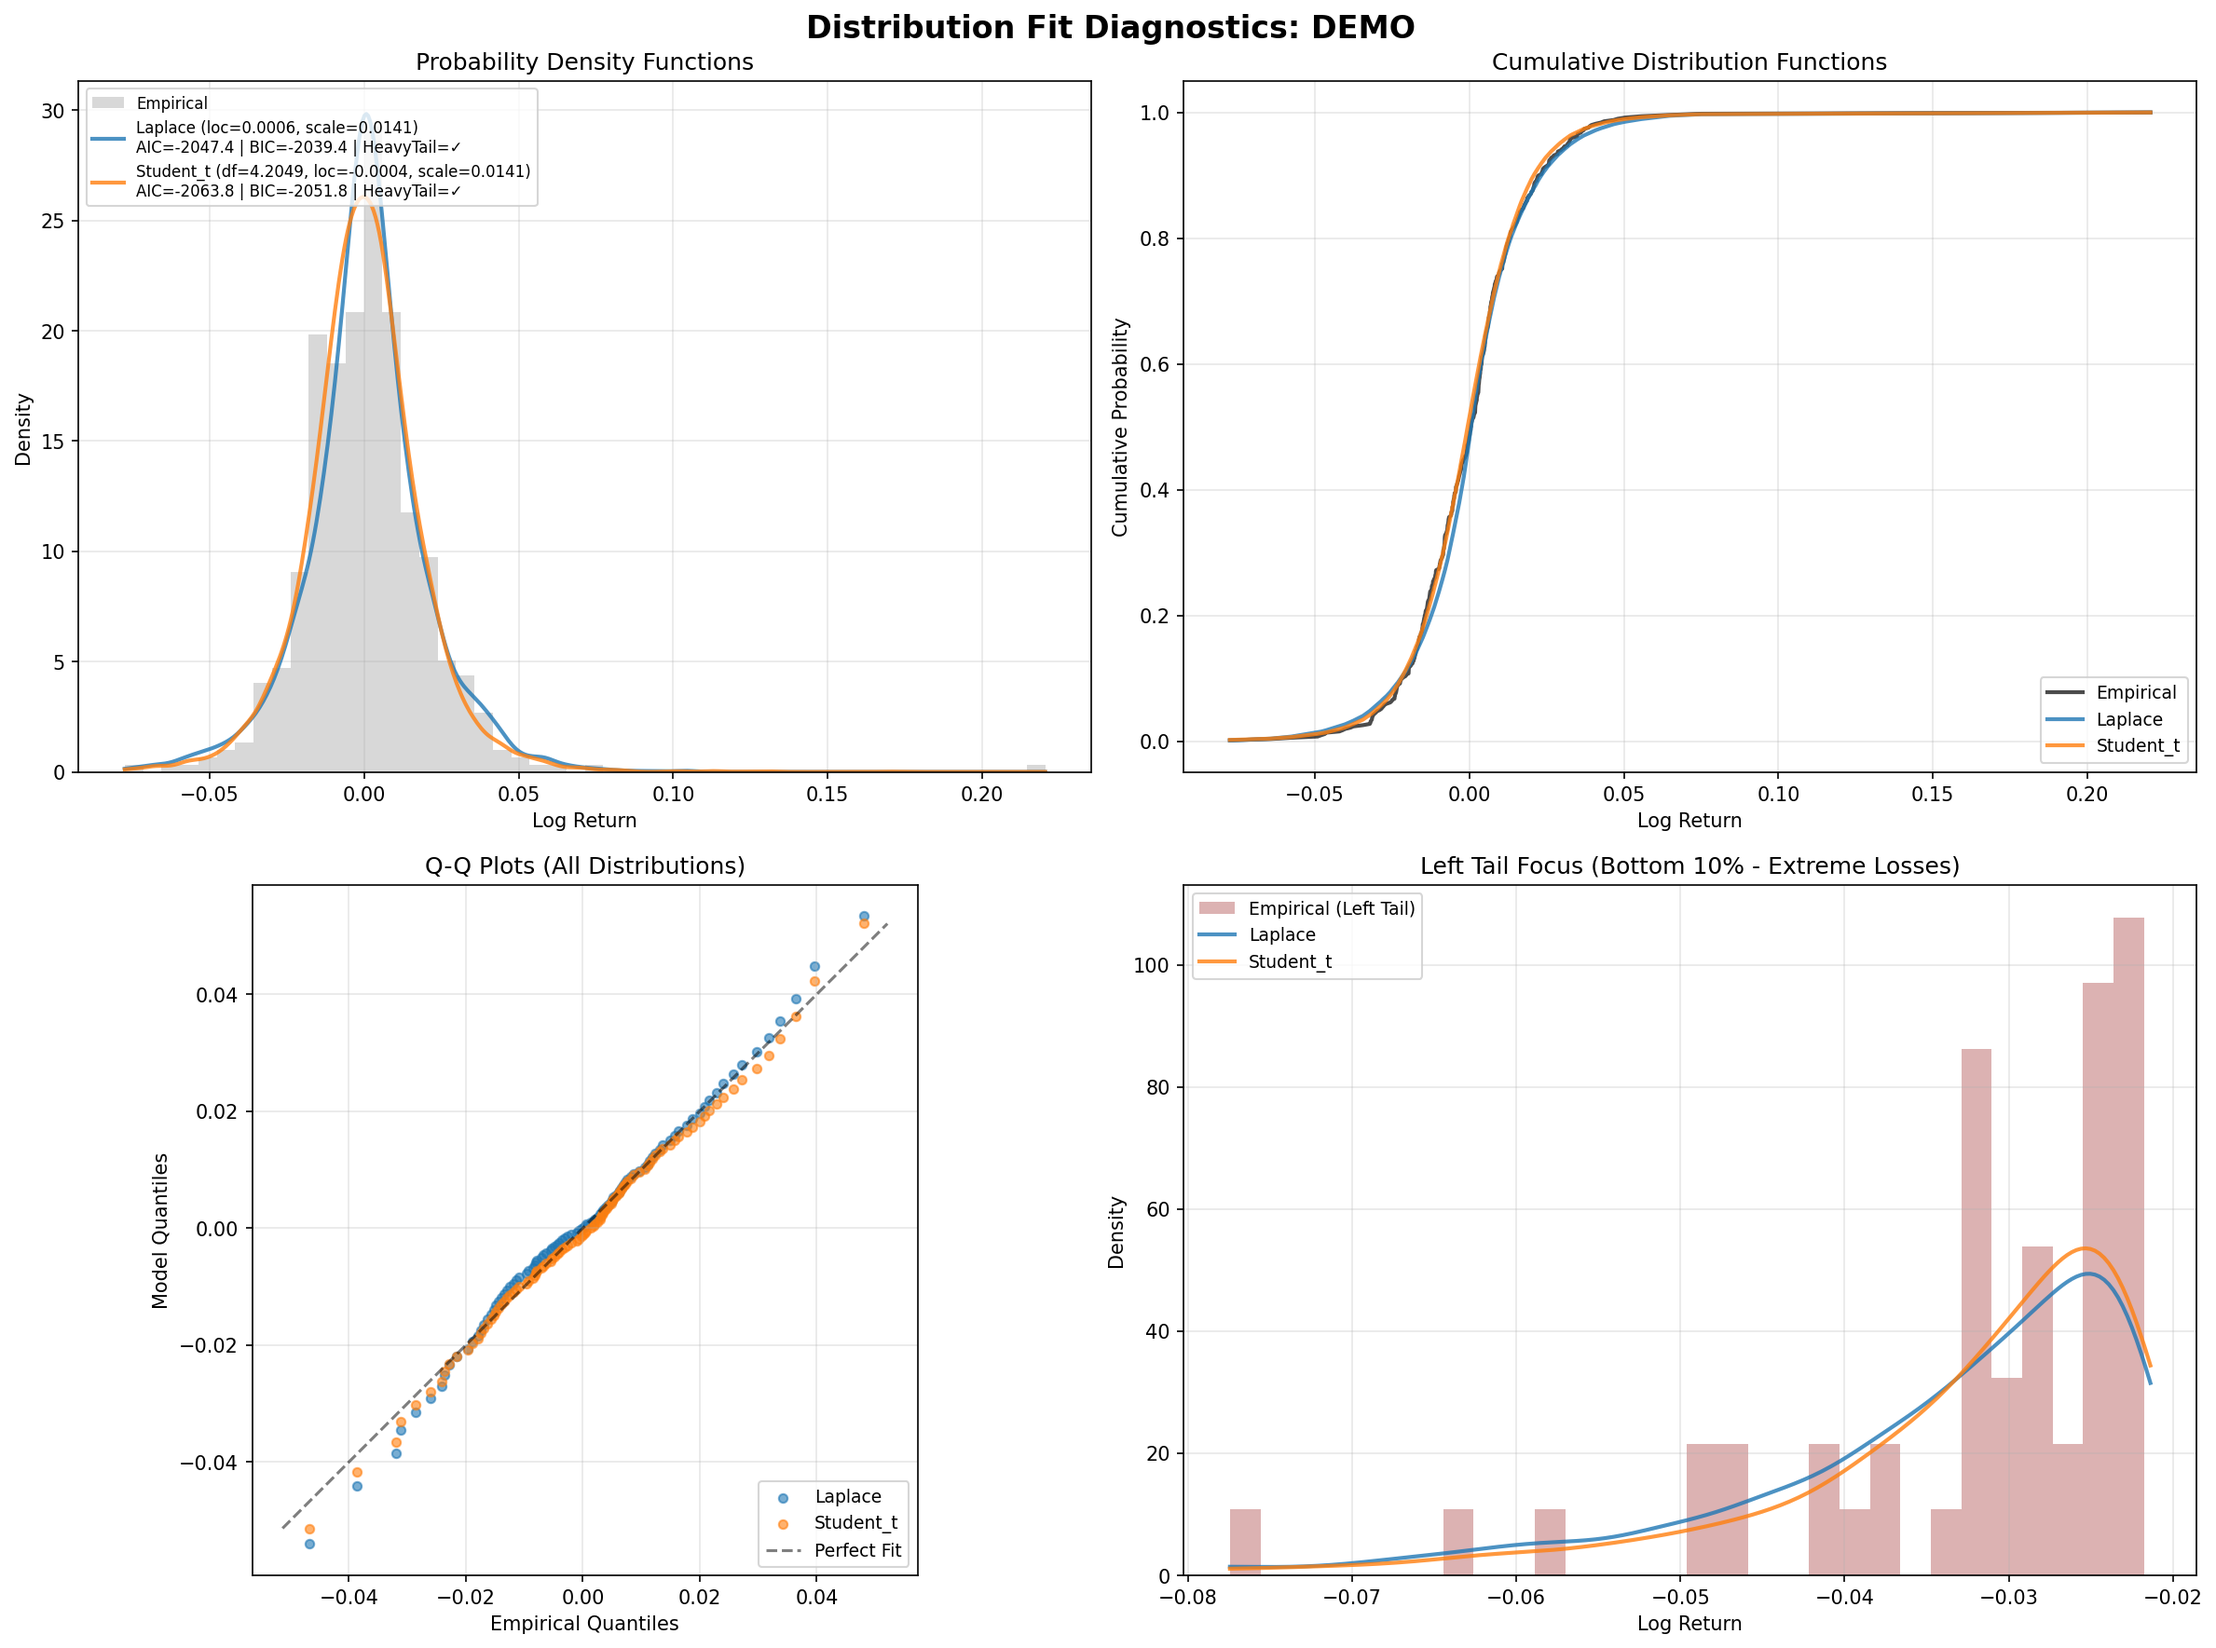
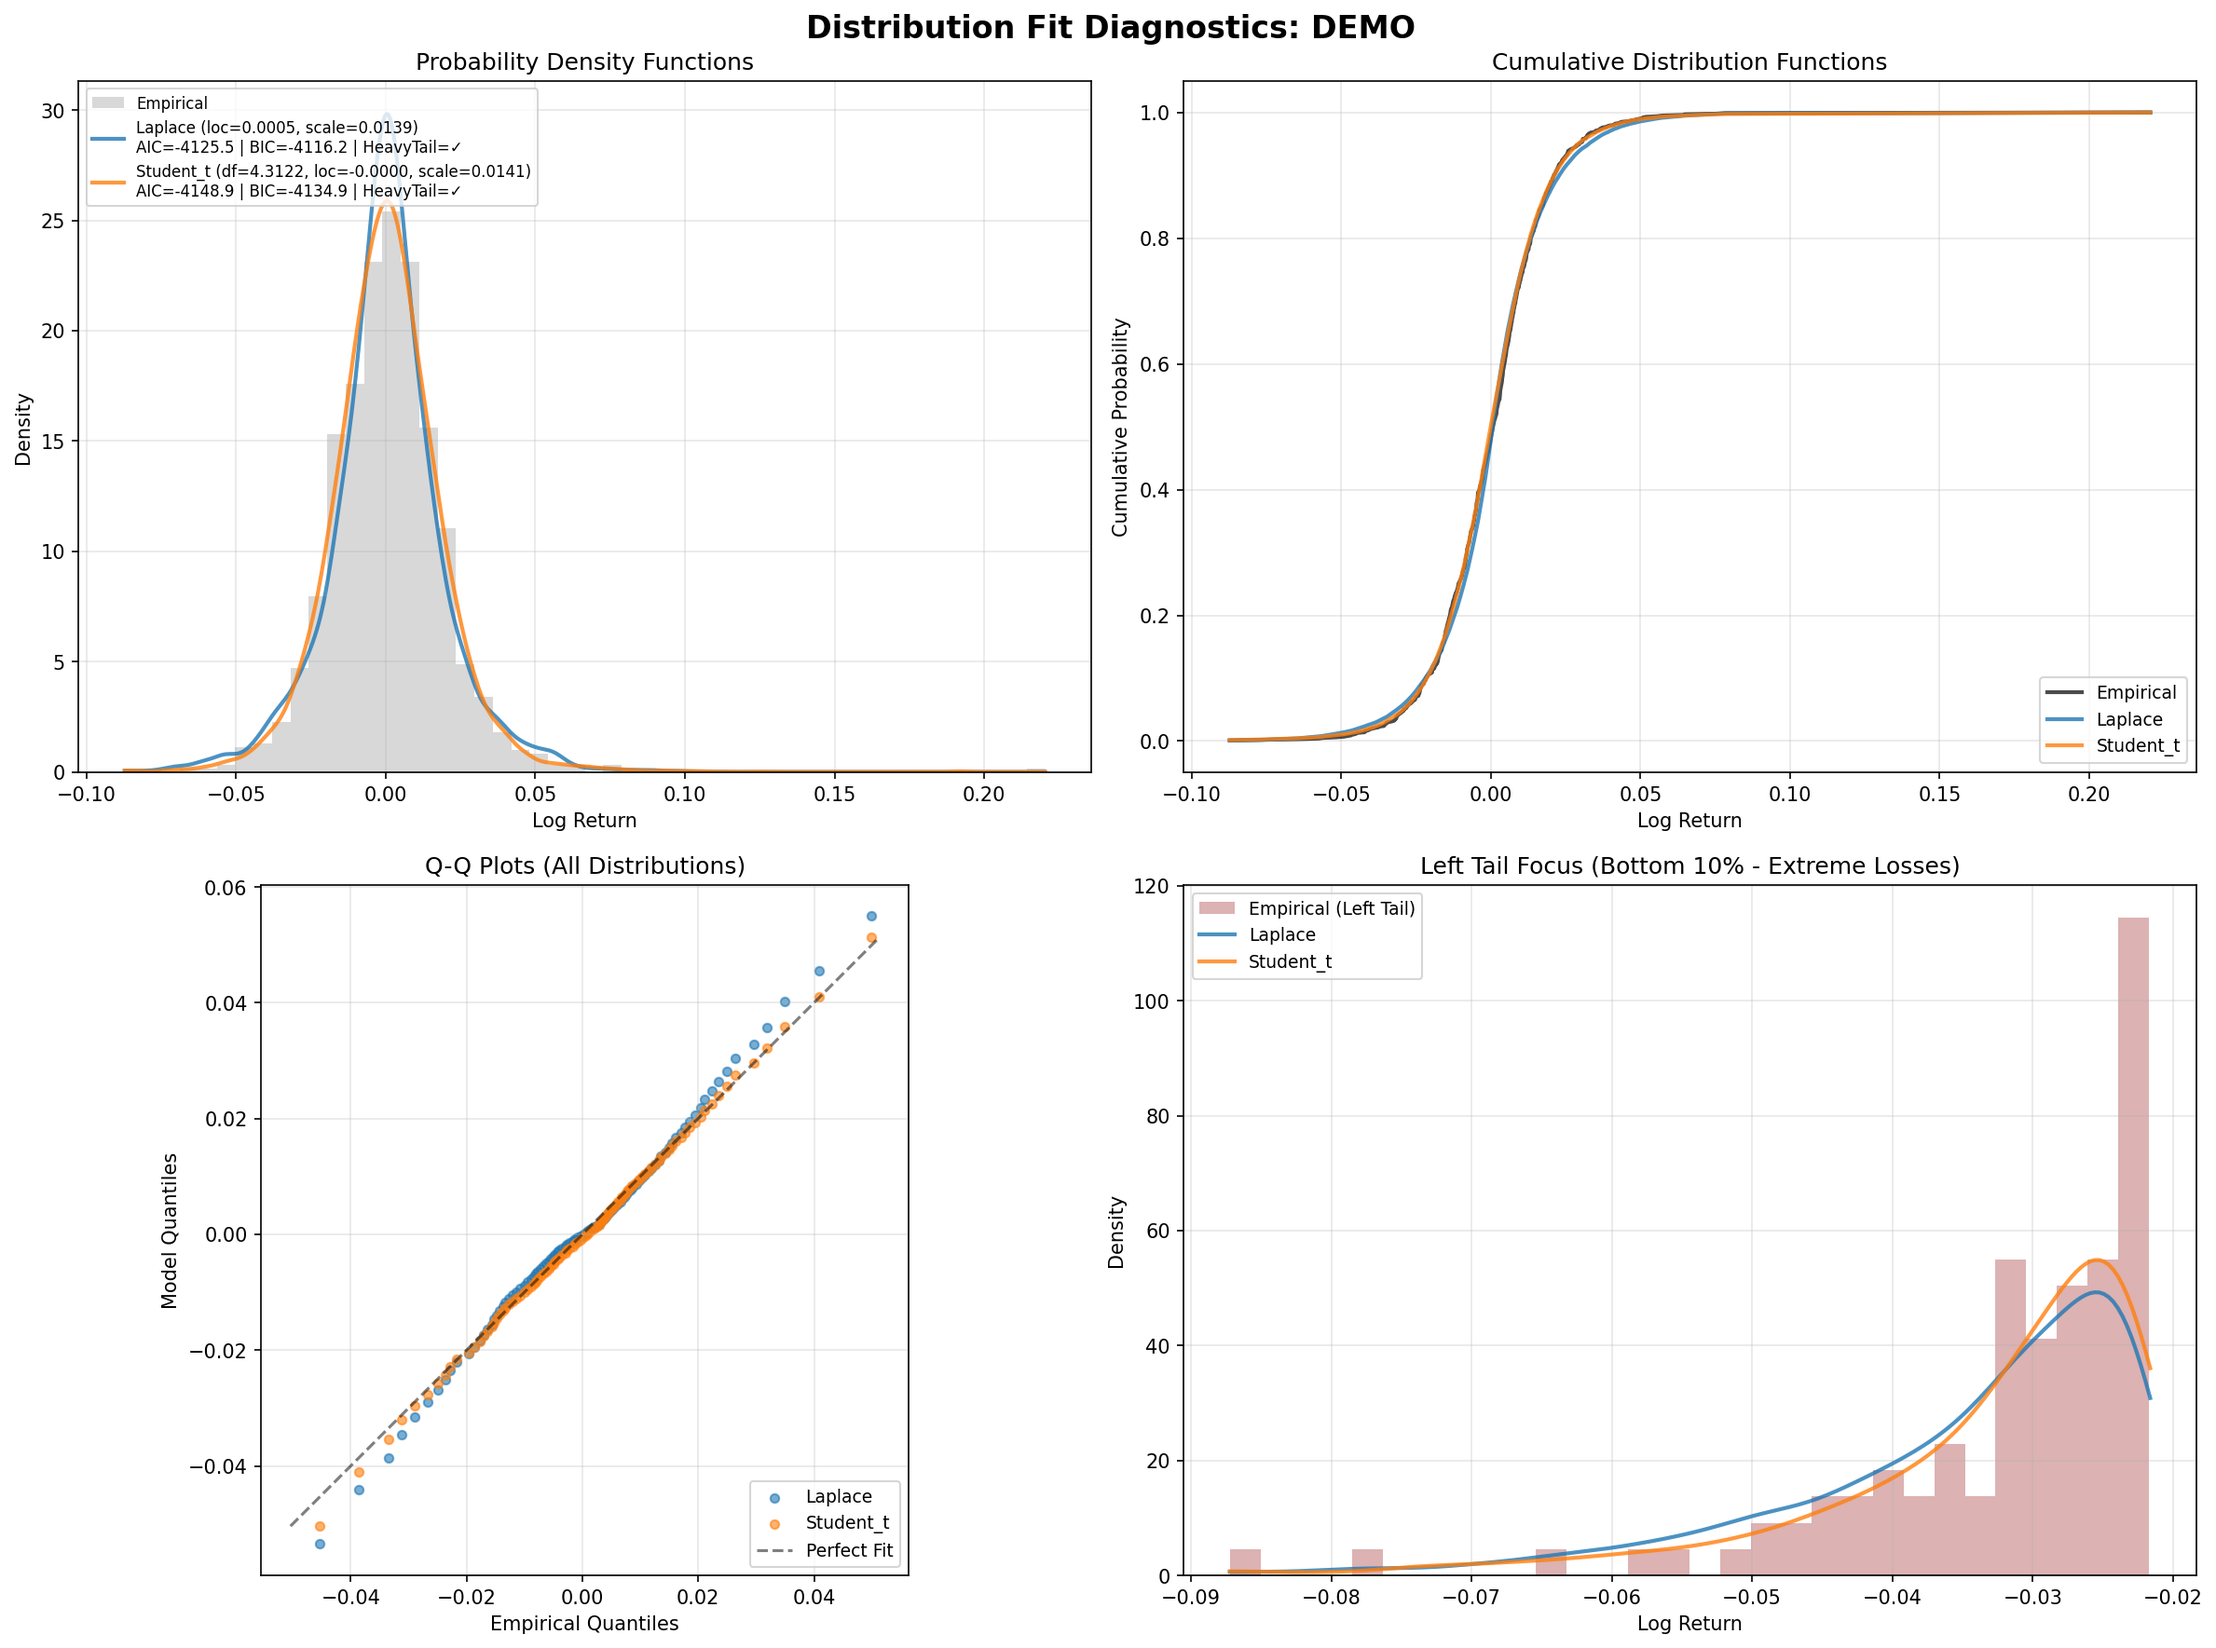
Moving scripts to the right folder.

diff --git a/scripts/distribution_fit_plotting_demo.py b/scripts/distribution_fit_plotting_demo.py
@@ -27,7 +27,7 @@ def demo_fit_plotting():
 
     # Generate synthetic log returns with fat tails (Student-t distribution)
     np.random.seed(42)
-    n_samples = 500
+    n_samples = 1000
 
     # Create Student-t distributed returns with heavy tails (df=5)
     from scipy.stats import t
